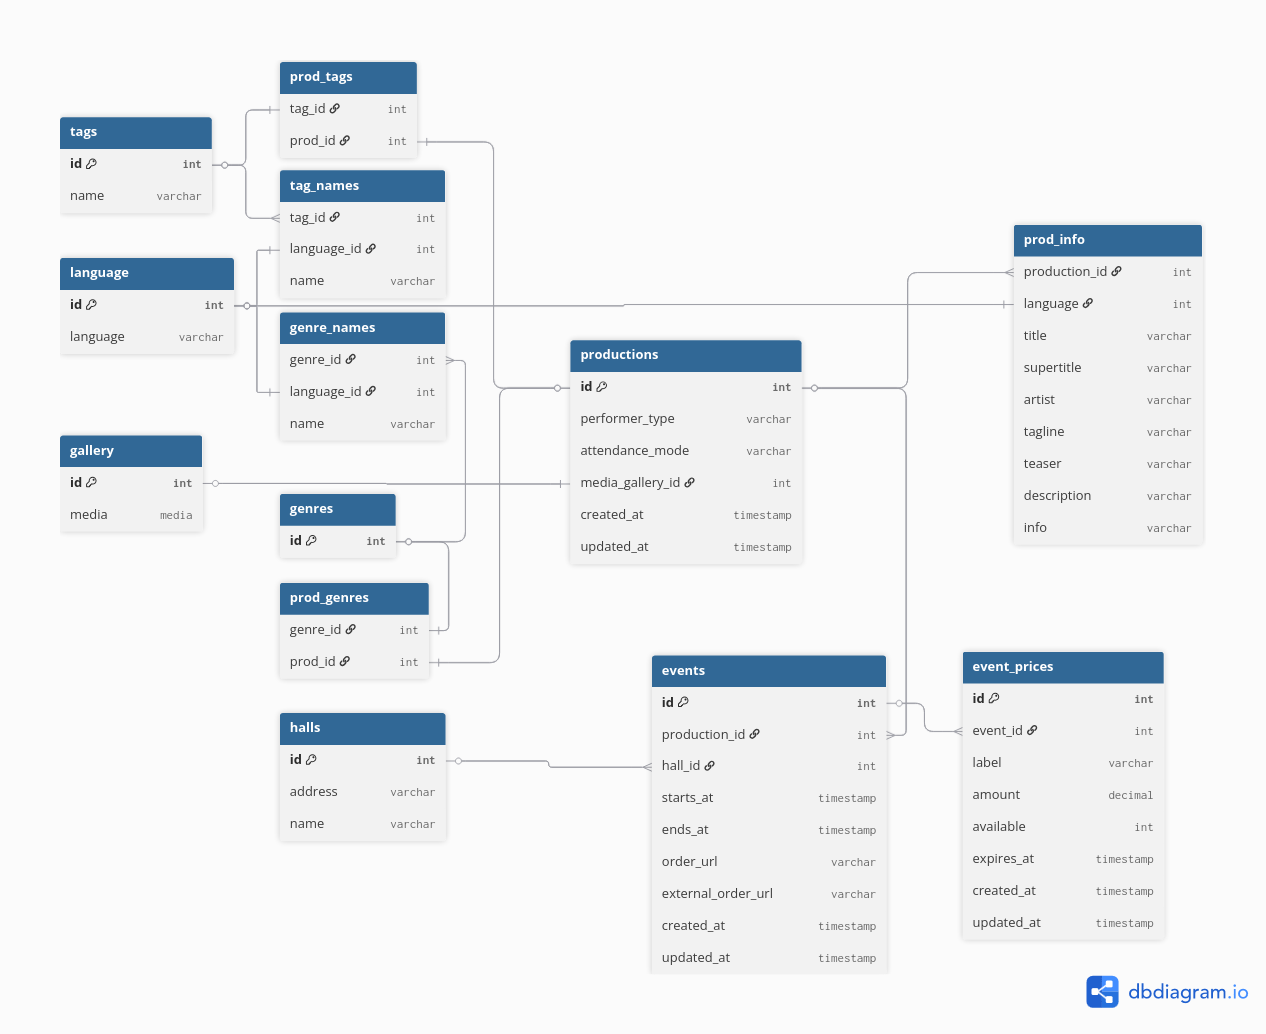
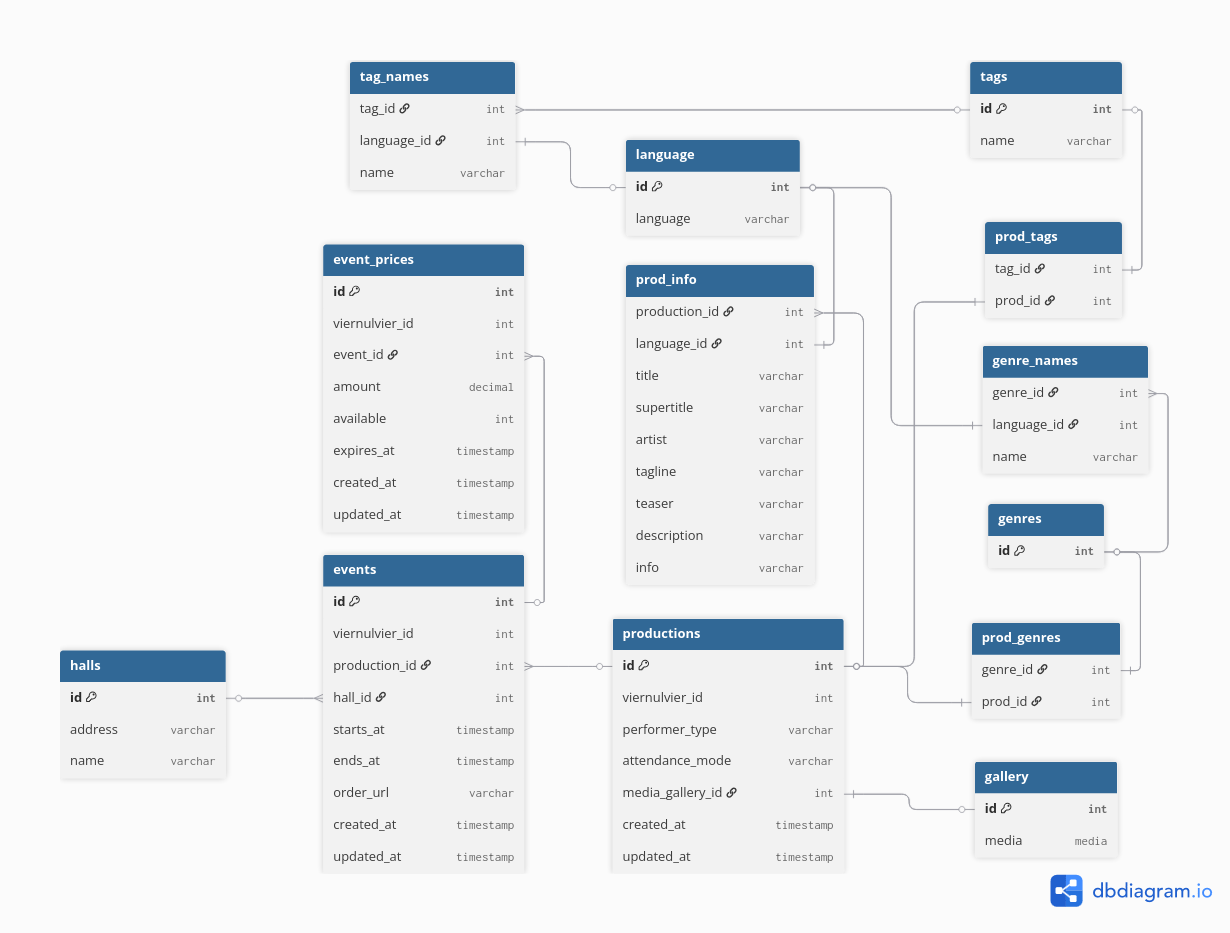
Update ER diagram

diff --git a/docs/domain-model.md b/docs/domain-model.md
@@ -8,25 +8,26 @@
 ```
 Table productions {
     id int [pk] // production unique ID
+    viernulvier_id int [unique]
+
     performer_type varchar // e.g., "group", "individual"
     attendance_mode varchar // e.g., "offline", "online", "hybrid"
-    
+
     media_gallery_id int [ref: - gallery.id]
-    
+
     created_at timestamp
     updated_at timestamp
 }
 
 Table prod_info {
   production_id int [ref: > productions.id]
-  language int [ref: - language.id]
+  language_id int [ref: - language.id]
 
-  title varchar 
-  supertitle varchar 
+  title varchar
+  supertitle varchar
   artist varchar
-  tagline varchar 
+  tagline varchar
   teaser varchar
-  
   description varchar
   info varchar
 }
@@ -69,6 +70,8 @@ Table prod_genres {
 
 Table events {
     id int [pk]                     // event ID from "@id"
+    viernulvier_id int [unique]
+
     production_id int [ref: > productions.id]
     hall_id int [ref: > halls.id]
 
@@ -76,20 +79,20 @@ Table events {
     ends_at timestamp
 
     order_url varchar
-    external_order_url varchar
 
     created_at timestamp
     updated_at timestamp
 }
 
 Table event_prices {
-    id int [pk]                     
+    id int [pk]
+    viernulvier_id int [unique]
+
     event_id int [ref: > events.id]
 
-    label varchar                    
-    amount decimal            
-    available int                     
-    expires_at timestamp       
+    amount decimal
+    available int
+    expires_at timestamp
 
     created_at timestamp
     updated_at timestamp
